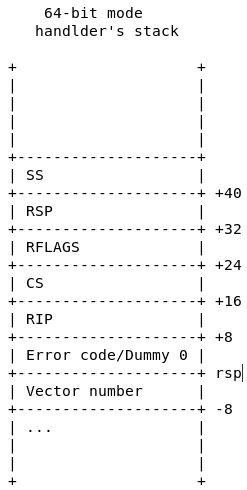
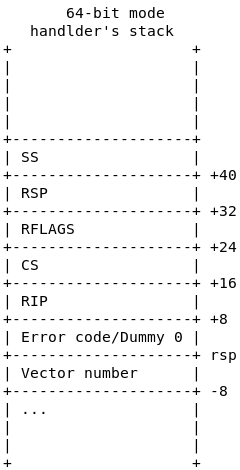
cleanup & start off with start_kernel

diff --git a/boot/boot.md b/boot/boot.md
@@ -1131,7 +1131,8 @@ linux16 命令由 1inux16 模块提供，代码在 grub-core/loader/i386/pc/linu
 	  ...
 
 	  /* Create kernel command line. */
-	  /* 在 real mode 部分(setup.bin)空间后面写入 linux kernel 的 command line */
+	  /* 在 real mode 部分(setup.bin)的空间后面写入 linux kernel 的 command line.
+	   * 注意，特意在前面加上了 “BOOT_IMAGE=” */
 	  grub_memcpy ((char *)grub_linux_real_chunk + GRUB_LINUX_CL_OFFSET,
 			LINUX_IMAGE, sizeof (LINUX_IMAGE));
 	  /* 这里的 -1 是因为 LINUX_IMAGE 表示的字符串末尾是空字符(0)结尾 */
@@ -5207,7 +5208,7 @@ INIT_PER_CPU(irq_stack_union);
 #endif /* CONFIG_X86_32 */
 ```
 
-### before start_kernel
+### prior to start_kernel
 
 **start_kernel** 是一个很有名的函数，其中包含真正的 kernel 初始化，即各子系统的初始化。在它之前，依然是各种准备工作。
 
@@ -5420,7 +5421,9 @@ ENTRY(secondary_startup_64)
 	 * 此阶段, percpu 特性还没有初始化 & 使用，现在使用的 percpu 变量还是"原始数据", 这是
 	 * 原注释中的 "Note that, bluhbluh" 的含义.
 	 * x86 是 little-endian, 所以 initial_gs+4(%rip) 的值放在 edx(higher 32-bit).
-	 * 但不知此时初始化 MSR_GS_BASE 的目的是什么?
+	 * 但不知此时初始化 MSR_GS_BASE 的目的是什么? 2019/7/18 update: 后面分析 percpu
+	 * 变量的读时，是使用汇编语言，而汇编语句就是使用了 %gs: symbol 的形式，可知现在初始化
+	 * %gs 的用处。
 	 *
 	 * 刚开始对原注释说的 "bottom of the irqstack" 有点困惑，不确定 bottom 指一段地址的
 	 * "开头" 还是 "结尾"，现在可以确定是指 "开头". 而且看过 union irq_stack_union 定义
@@ -5485,7 +5488,8 @@ END(secondary_startup_64)
 	GLOBAL(initial_code)
 	.quad	x86_64_start_kernel
 	GLOBAL(initial_gs)
-	/* 参考 linker script 一节中 percpu 相关描述 */
+	/* 参考 linker script 一节中 percpu 相关描述. 2019/7/18 update: 真是没有想到，
+	 * 这么底层的代码还会被改的机会，见 commit: e6401c1309317 */
 	.quad	INIT_PER_CPU_VAR(irq_stack_union)
 	GLOBAL(initial_stack)
 	/*
@@ -5614,9 +5618,9 @@ early_gdt_descr_base:
 ENTRY(phys_base)
 	/* This must match the first entry in level2_kernel_pgt */
 	/*
-	 * 看起来 phys_base 就是为了存储 LMA 和实际物理地址的 delta, 原注释何意? 想了半天终于
-	 * 明白了！故事要从 linker script 定义的 VMA 和 LMA 说起. 上文已提到, vmlinux 占据
-	 * 的地址空间被设计为：
+	 * 看起来 phys_base 就是为了存储 LMA 和实际物理地址的 delta, 名不符实, and 原注释何意?
+	 * 想了半天终于明白了! 故事要从 linker script 定义的 VMA 和 LMA 说起. 上文已提到,
+	 * vmlinux 占据的地址空间被设计为：
 	 *
 	 *   VMA: [0xffffffff80000000 + offset -- KERNEL_IMAGE_SIZE]
 	 *   LMA: [0                  + offset -- KERNEL_IMAGE_SIZE]
@@ -5634,7 +5638,7 @@ ENTRY(phys_base)
 EXPORT_SYMBOL(phys_base)
 
 ```
-分析 __startup_64 函数前埋下一个问题: KASLR 开启时，VO 代码执行时，符号引用是如何不出错的? 待分析后解答。
+分析 __startup_64 函数前埋下一个问题: KASLR 开启时，VO 代码执行时，符号引用是如何不出错的?
 
 **Tip**: __startup_64 函数工作在 identity-mapped paging 下, 虚拟地址 = 物理地址。
 
@@ -5947,7 +5951,7 @@ unsigned long __head __startup_64(unsigned long physaddr,
 
 ...
 	/* early_top_pgt 和 fixup_pointer 函数中的 _text 都是 R_X86_64_32S.
-	 * level3_kernel_pgt 是 R_X86_64_64.         展开：
+	 * level3_kernel_pgt 是 R_X86_64_64.     将 fixup_pointer 展开：
 	 *
 	 * pgd = early_top_pgt - (void *)_text + (void *)physaddr;
 	 *     = (early_top_pgt + v_delta) - (_text + v_delta) + physaddr
@@ -6006,7 +6010,7 @@ unsigned long __head __startup_64(unsigned long physaddr,
 
   1. 背景，VO 原始的映射关系定义在 linker script 中，即在图中水平映射，如第一条横线所示。图中的 **start** 表示 VO(vmlinux) 的起始虚拟地址，物理地址。
   2. 若只有物理地址发生变化，则只需在 PMD 的 entry 中加上 p_delta
-  3. 若虚拟地址和物理地址都发生变化(under KASLR), 如图所示，original VMA -> new VMA, original LMA -> new LMA, new VMA 本来 map 到物理地址 X, KASLR 后要 map 到 new LMA, 即 new VMA -> X + (p_delta - v_delta),so, 上面分析中难理解的地方恍然大悟了。
+  3. 若虚拟地址和物理地址都发生变化(under KASLR), 即如图所示: original VMA -> new VMA, original LMA -> new LMA. 原映射关系下，new VMA 本来 map 到物理地址 X, KASLR 后要 map 到 new LMA, 即 new VMA -> X + (p_delta - v_delta),so, 上面分析中难理解的地方恍然大悟了。
 
 看到这里，可以回到上文 head_64.S 中继续分析了。Not long from now, head_64.S 会跳到 x86_64_start_kernel 执行：
 
@@ -6065,11 +6069,32 @@ asmlinkage __visible void __init x86_64_start_kernel(char * real_mode_data)
 	 */
 	load_ucode_bsp();
 
-	/* set init_top_pgt kernel high mapping*/
+	/* set init_top_pgt kernel high mapping。另一个 top pgt 终于初始化了，等待使用 */
 	init_top_pgt[511] = early_top_pgt[511];
 
 	x86_64_start_reservations(real_mode_data);
 }
+
+void __init x86_64_start_reservations(char *real_mode_data)
+{
+	/* version is always not zero if it is copied */
+	/* 不明白，为什么 copy 后还可能为 0? */
+	if (!boot_params.hdr.version)
+		copy_bootdata(__va(real_mode_data));
+
+	/* quick glace 可知，一堆 quirks, 特定平台的小怪僻 */
+	x86_early_init_platform_quirks();
+
+	switch (boot_params.hdr.hardware_subarch) {
+	case X86_SUBARCH_INTEL_MID:
+		x86_intel_mid_early_setup();
+		break;
+	default:
+		break;
+	}
+
+	/* 终于，来了这里，长征总算开始了，海阔凭鱼跃，天高任鸟飞，可以开始研究感兴趣的子系统了 */
+	start_kernel();
 ```
 __va() 分析：
 ```
@@ -6097,13 +6122,13 @@ unsigned long page_offset_base __ro_after_init = __PAGE_OFFSET_BASE_L4;
 代码展开后其实逻辑很简单，只是给入参物理地址加上了 0xffff888000000000 得到其虚拟地址，但
 明白其背景才是重要的。由 Documentation/x86/x86_64/mm.rst 可看出，4-level paging 时，
 [ffff888000000000, ffffc87fffffffff] 的 64TB 空间用于 direct mapping of all
-physical memory, 也就是说，虚拟地址 ffff888000000000 被映射物理地址 0.
+physical memory, 也就是说，虚拟地址 ffff888000000000 映射到物理地址 0.
 ```
 
 在 ZO 中也看到 BUILD_BUG_ON 的定义, 但 VO 中的实现不同，VO 中的实现才是正宗的：
 
 ```
-# in include/linux/build_bug.h, 按照出境顺序列出所有相关定义
+/* in include/linux/build_bug.h, 按照出境顺序列出所有相关定义 */
 /**
  * BUILD_BUG_ON - break compile if a condition is true.
  * @condition: the condition which the compiler should know is false.
@@ -6337,8 +6362,8 @@ void __init idt_setup_early_handler(void)
  *   task state segment (TSS) must exist...
  *   The operating system must create at least one 64-bit TSS after activating
  *   IA-32e mode....
- * 直接答案是：若从 ZO 跳转到 VO，TSS 已定义且已 TR load; 若从 64-bit boot loader 而来，
- * 则 loader 必须也已定义 TSS 并 load TR.
+ * 直接答案是：若从 ZO 跳转到 VO，TSS 已定义且已 load TR; 若从 64-bit boot protocol
+ * 而来，则 loader 必须也已定义 TSS 并 load TR.
  *
  * 但是！！！至今为止，其实都没有发生 task switch with privilege change, ZO 中的 TSS
  * 也只是假的，有 descriptor, 没有实际空间(看 ZO head_64.S 中 GDT 中的 TSS 定义)。*/
@@ -6362,6 +6387,8 @@ static void set_intr_gate(unsigned int n, const void *addr)
 	data.bits.type	= GATE_INTERRUPT; /* */
 	data.bits.p	= 1;
 
+	/* idt_table 定义再 idt.c 文件头部，IDTR 的格式，与 GDTR 的格式一样，limit 在前面。
+	 * 参考： Intel SDM 3a, Figure 3-11. Pseudo-Descriptor Formats */
 	idt_setup_from_table(idt_table, &data, 1, false);
 }
 
@@ -6481,6 +6508,11 @@ early_idt_handler_common:
 	jz 20f			/* All good */
 
 10:
+	/* All the other exceptions handled here. 对于看习惯 Intel SDM 的人，trapnr
+	 * 这个名字略有困扰，就是 vector number 而已。rsp 恰好指向一个 pt_regs 结构，此时
+	 * 才发现，上面按照 pt_regs 结构体定义的逆向(自下向上) push 的奥妙。
+	 * early_fixup_exception 中最重要的是调用 fixup_exception 函数，目前唯一的文档线索
+	 * 是：Documentation/x86/exception-tables.rst. 待需要时研究。*/
 	movq %rsp,%rdi		/* RDI = pt_regs; RSI is already trapnr */
 	call early_fixup_exception
 
@@ -6497,7 +6529,7 @@ GLOBAL(restore_regs_and_return_to_kernel)
 	...
 #endif
 	/* 定义在 arch/x86/kernel/entry/calling.h 中的 assembly macro, 依次 pop 上面
-	 * push 的 register, 直到 rdi. */
+	 * push 的 register, 直到 rdi. 我们的 case 中，regs->orig_as 是 error code. */
 	POP_REGS
 	addq	$8, %rsp	/* skip regs->orig_ax */
 	/*
@@ -6506,7 +6538,7 @@ GLOBAL(restore_regs_and_return_to_kernel)
 	 */
 	INTERRUPT_RETURN
 
-/* x86-64 下的 iret 比 x86 曲折一些。x86 下的 INTERRUPT_RETURN 就是一条 iret. */
+/* x86-64 下的 iret 比 x86 曲折(x86 下的 INTERRUPT_RETURN 就是一条 iret.) */
 #define INTERRUPT_RETURN	jmp native_iret
 
 ENTRY(native_iret)
@@ -6534,6 +6566,135 @@ native_irq_return_iret:
 	/* 不知道我们这个 page fault case 下会有什么错误, anyway, 一条简单的 iretq 符合认知.
 	 * 可以回到 interrupted routine 继续分析了 */
 	iretq
+```
+
+### start_kernel
+
+鸿蒙处辟原无姓，打破顽空须悟空~
+
+从"此"开始，也可以叫做鸿蒙，所有 sub-system 在此初始化。common sense tell us, people almost can't know all area mentioned in this function, 所以从此开始，可以选择感兴趣的 sub-system 进行分析。但不妨先看一下函数声明：
+```
+asmlinkage __visible void __init start_kernel(void)
+{
+}
+```
+这里出现的几个 attribute 值的说明一下： `asmlinkage` 已在 extract_kernel 的分析中解释过；__visible 定义如下:
+
+```
+/* 如注释所说, __has_attribute 是 C-preprocessor 的 operator, 低于特定版本时不支持。
+ * 一般 object 默认都 visible out of the current compilation unit, 这样显式使用也是
+ * 为了兼容所有 corner case. */
+#if __has_attribute(__externally_visible__)
+# define __visible                      __attribute__((__externally_visible__))
+#else
+# define __visible
+#endif
+```
+__init 定义如下:
+```
+#define __init		__section(.init.text) __cold  __latent_entropy __noinitretpoline
+```
+cold, 顾名思义，很少被执行到, 显然 start_kernel 只会执行依次一次；使用 modules 的话，__noinitretpoline 定义为空；中间那个暂时忽略。
+
+面对这么庞大的函数，如果没有特定兴趣点，一时还不知如何开始，不妨随意看一下先：
+```
+asmlinkage __visible void __init start_kernel(void)
+{
+	char *command_line;
+	char *after_dashes;
+
+	set_task_stack_end_magic(&init_task);
+	/* 有趣的函数，可以搜到它在 start_kernel 之上定义为空，且有 attribute “__weak__”.
+	 * 实际上，此函数只在少数 arch 中有定义，如：arm64, S390. 在 arch/ 目录下 grep 一下
+	 * 可知。x86 arch 没有定义此函数，所以将链接到 __weak__ 的那个。*/
+	smp_setup_processor_id();
+	...
+
+	/* 下面最终调用的 printk, 稍微深挖它的代码会发现也很复杂, to be analysed. 一点 tip:
+	 * 当打开 console= 的命令行参数时，这是第一条 log. */
+	pr_notice("%s", linux_banner);
+	/* 这也是一个 Giant Function, 包含所有 x86 架构相关的 setup, 值的单独分析. */
+	setup_arch(&command_line);
+
+}
+```
+setup_arch 也是个巨大的函数，只能随性分析：
+```
+/*
+ * Determine if we were loaded by an EFI loader.  If so, then we have also been
+ * passed the efi memmap, systab, etc., so we should use these data structures
+ * for initialization.  Note, the efi init code path is determined by the
+ * global efi_enabled. This allows the same kernel image to be used on existing
+ * systems (with a traditional BIOS) as well as on EFI systems.
+ */
+/*
+ * setup_arch - architecture-specific boot-time initializations
+ *
+ * Note: On x86_64, fixmaps are ready for use even before this is called.
+ */
+
+void __init setup_arch(char **cmdline_p)
+{
+	/* 被 KASLR 下的 __pa_symbol 迷惑了一会儿，还特意 review 上面 VO fix KASLR address
+	 * 的相关分析，弯弯绕还是很多的= =| 无 KASLR 时很容易理解。将单独分析 KASLR 的情况。
+	 * 注意：这里两次出现的 _text 重定位类型都是绝对地址寻址，即 S + A 类型，这个信息在下面
+	 * 的分析中很重要。__bss_stop - _text 是 VO memory image 的 size。
+	 * 正式开始使用 memblock 机制。 */
+	memblock_reserve(__pa_symbol(_text),
+		 (unsigned long)__bss_stop - (unsigned long)_text);
+
+	...
+	/* 新概念 get: One Laptop Per Child. Open FirmWare. 可以略过 */
+	olpc_ofw_detect();
+	/* 64-bit mode 下，特地初始化了 #DB 和 #BP 的 handler. 一个小问题: 修改 IDT，需要
+	 * reload IDTR? */
+	idt_setup_early_traps();
+	...
+	/* 新概念 get: https://lwn.net/Articles/412072/ */
+	jump_label_init();
+	/* 概念 ioremap: CPU 通过 physical address 访问 I/O device, 代码则需要 virtual
+	 * address, 通过 paging 翻译城 physical address. 值的仔细分析。*/
+	early_ioremap_init();
+}
+```
+#### setup_arch: early_ioremap_init
+
+```
+void __init early_ioremap_init(void)
+{
+	pmd_t *pmd;
+
+#ifdef CONFIG_X86_64
+	BUILD_BUG_ON((fix_to_virt(0) + PAGE_SIZE) & ((1 << PMD_SHIFT) - 1));
+#else
+	WARN_ON((fix_to_virt(0) + PAGE_SIZE) & ((1 << PMD_SHIFT) - 1));
+#endif
+
+}
+```
+
+#### __pa_symbol
+```
+/* 针对 KASLR， 将 __pa_symbol 涉及的 macro 全部展开分析 */
+/* arch/x86/include/asm/page.h */
+#define __pa_symbol(x) \
+	__phys_addr_symbol(__phys_reloc_hide((unsigned long)(x)))
+
+/* arch/x86/include/asm/page_64.h */
+#define __phys_reloc_hide(x)	(x)
+
+#define __phys_addr_symbol(x) \
+	((unsigned long)(x) - __START_KERNEL_map + phys_base)
+
+/* 上文已说，因为 _text 是绝对寻址，ZO 会加上 v_delta. 展开后是：
+ *
+ *   VMA + v_delta - __START_KERNEL_map + p_delta - v_delta
+ * = VMA - __START_KERNEL_map + p_delta
+ * = LMA + p_delta
+ * = 符号的实际物理地址
+ *
+ * 这里的窍门是:  VMA - __START_KERNEL_map = LMA, 这一点没有快速的认识到 = =|
+ */
 ```
 
 ## APPENDIX
